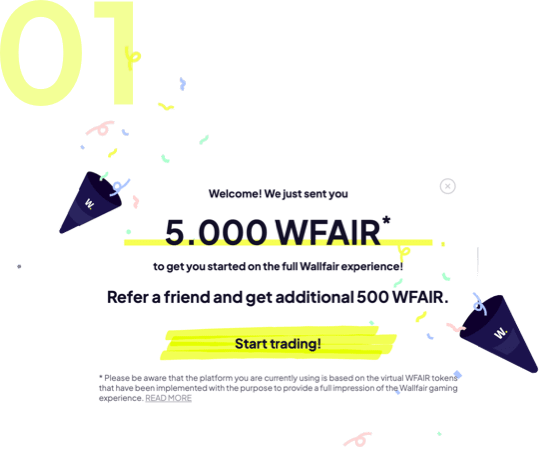
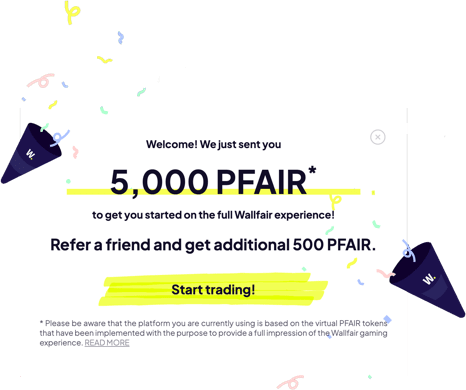
Updated alpha-platform cards

diff --git a/src/constants/AlphaPlatform.js b/src/constants/AlphaPlatform.js
@@ -1,21 +1,25 @@
-import First from '../data/backgrounds/alpha-platforms/alpha-platform1-bg.png';
-import Second from '../data/backgrounds/alpha-platforms/alpha-platform2-bg.png';
-import Third from '../data/backgrounds/alpha-platforms/alpha-platform3-bg.png';
-import Fourth from '../data/backgrounds/alpha-platforms/alpha-platform4-bg.png';
+import FirstTitle from '../data/backgrounds/alpha-platforms/01.png';
+import FirstBackground from '../data/backgrounds/alpha-platforms/alpha-platform1-bg.png';
+import SecondTitle from '../data/backgrounds/alpha-platforms/02.png';
+import SecondBackground from '../data/backgrounds/alpha-platforms/alpha-platform2-bg.png';
+import ThirdTitle from '../data/backgrounds/alpha-platforms/03.png';
+import ThirdBackground from '../data/backgrounds/alpha-platforms/alpha-platform3-bg.png';
+import FourthTitle from '../data/backgrounds/alpha-platforms/04.png';
+import FourthBackground from '../data/backgrounds/alpha-platforms/alpha-platform4-bg.png';
 import Routes from './Routes';
 
 export const ALPHA_PLATFORMS = [
   {
-    background: First,
-    title: '01',
+    background: FirstBackground,
+    title: FirstTitle,
     subtitle: '',
-    description: 'Sign up and you get 5000 WFAIR tokens to play',
+    description: 'Sign up and you get 5000 PFAIR tokens to play',
     active: false,
     linkTo: '',
   },
   {
-    background: Second,
-    title: '02',
+    background: SecondBackground,
+    title: SecondTitle,
     subtitle: '',
     description:
       'As you play you also earn rewards and climb on the leaderboard',
@@ -23,8 +27,8 @@ export const ALPHA_PLATFORMS = [
     linkTo: '',
   },
   {
-    background: Third,
-    title: '03',
+    background: ThirdBackground,
+    title: ThirdTitle,
     subtitle: '',
     description:
       'Every week, the Top 10 on the leaderboard are rewarded real WFAIR tokens',
@@ -32,8 +36,8 @@ export const ALPHA_PLATFORMS = [
     linkTo: '',
   },
   {
-    background: Fourth,
-    title: '04',
+    background: FourthBackground,
+    title: FourthTitle,
     subtitle: '',
     description:
       'You can sell the tokens or use them when our platform launches',

diff --git a/src/components/AlphaPlatformCards/styles.module.scss b/src/components/AlphaPlatformCards/styles.module.scss
@@ -51,8 +51,7 @@
 
 .alphaplatforms {  
   display: flex;
-  flex-wrap: wrap;
-  padding-left: 32px;
+  flex-wrap: wrap;  
   margin-top: 50px;
   width: 100%;
 
@@ -65,6 +64,7 @@
     position: relative;    
     flex-basis: 25%;
     padding: 10px;
+    margin-top: 8px;
 
     &:first-child {
       flex-basis: 25%;
@@ -76,24 +76,35 @@
 
     @media (max-width: $screen-md) {
       padding: 20px 0;
+      margin-top: 20px;
     }
 
     &:last-child {
       padding-right: 0;
     }
 
-    .alphaplatformItem {
-      img {
-        width: 100%;
-        object-fit: contain;        
+    .alphaplatformItem {            
+      .alphaplatformHeader {        
+        padding: 8px 16px 0 16px;
+        .title {
+          height: 52px;
+          position: absolute;
+          top: 0px;
+          left: 50%;
+          transform: translateX(-50%);
+        }
+        .background {
+          width: 100%;
+          object-fit: contain;        
+        }
       }
 
       .alphaplatformInfo {
         color: $colorWhite;
         font-family: $fontRegular;
         margin-top: 12px;
-        padding-left: 40px;
-        padding-right: 40px;
+        padding-left: 24px;
+        padding-right: 24px;
 
         .description {
           text-align: center;

diff --git a/src/components/AlphaPlatformCards/index.js b/src/components/AlphaPlatformCards/index.js
@@ -25,7 +25,13 @@ const AlphaPlatformCards = ({ alphaplatforms, showHowtoLink, showPopup }) => {
           return (
             <div className={styles.wrapper} key={`alphaplatformcard-${index}`}>
               <div key={index} className={styles.alphaplatformItem}>
-                <img src={alphaplatform.background} />
+                <div className={styles.alphaplatformHeader}>
+                  <img src={alphaplatform.title} className={styles.title} />
+                  <img
+                    src={alphaplatform.background}
+                    className={styles.background}
+                  />
+                </div>
                 <div className={styles.alphaplatformInfo}>
                   <div className={styles.description}>
                     {alphaplatform.description}
